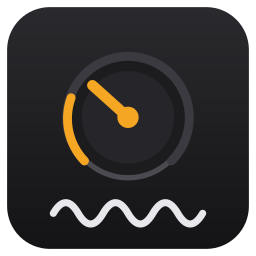
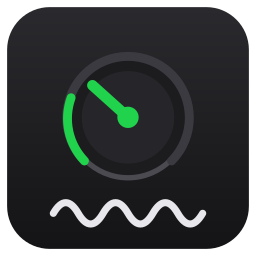
style: align accent colors with RME/TotalMix color language
- Level/fader accents (dial arc, touch-strip dB value and bar, plugin
  icon) switch from orange to meter green #21D24C
- Mute active state switches from red to the TotalMix M-button blue
  #2FB1E3
- Dim active state stays orange #F5A623
- PI focus outline follows the green accent; ICON-DESIGN.md documents
  the color roles

Changed region(s): [[0.3438, 0.3125, 0.5625, 0.5], [0.2188, 0.3438, 0.3438, 0.6562]]

diff --git a/com.rimtty.totalmix-osc-remote.sdPlugin/ui/style.css b/com.rimtty.totalmix-osc-remote.sdPlugin/ui/style.css
@@ -67,7 +67,7 @@ select {
 
 input:focus,
 select:focus {
-  outline: 1px solid #f5a623;
+  outline: 1px solid #21d24c;
 }
 
 .hint {
